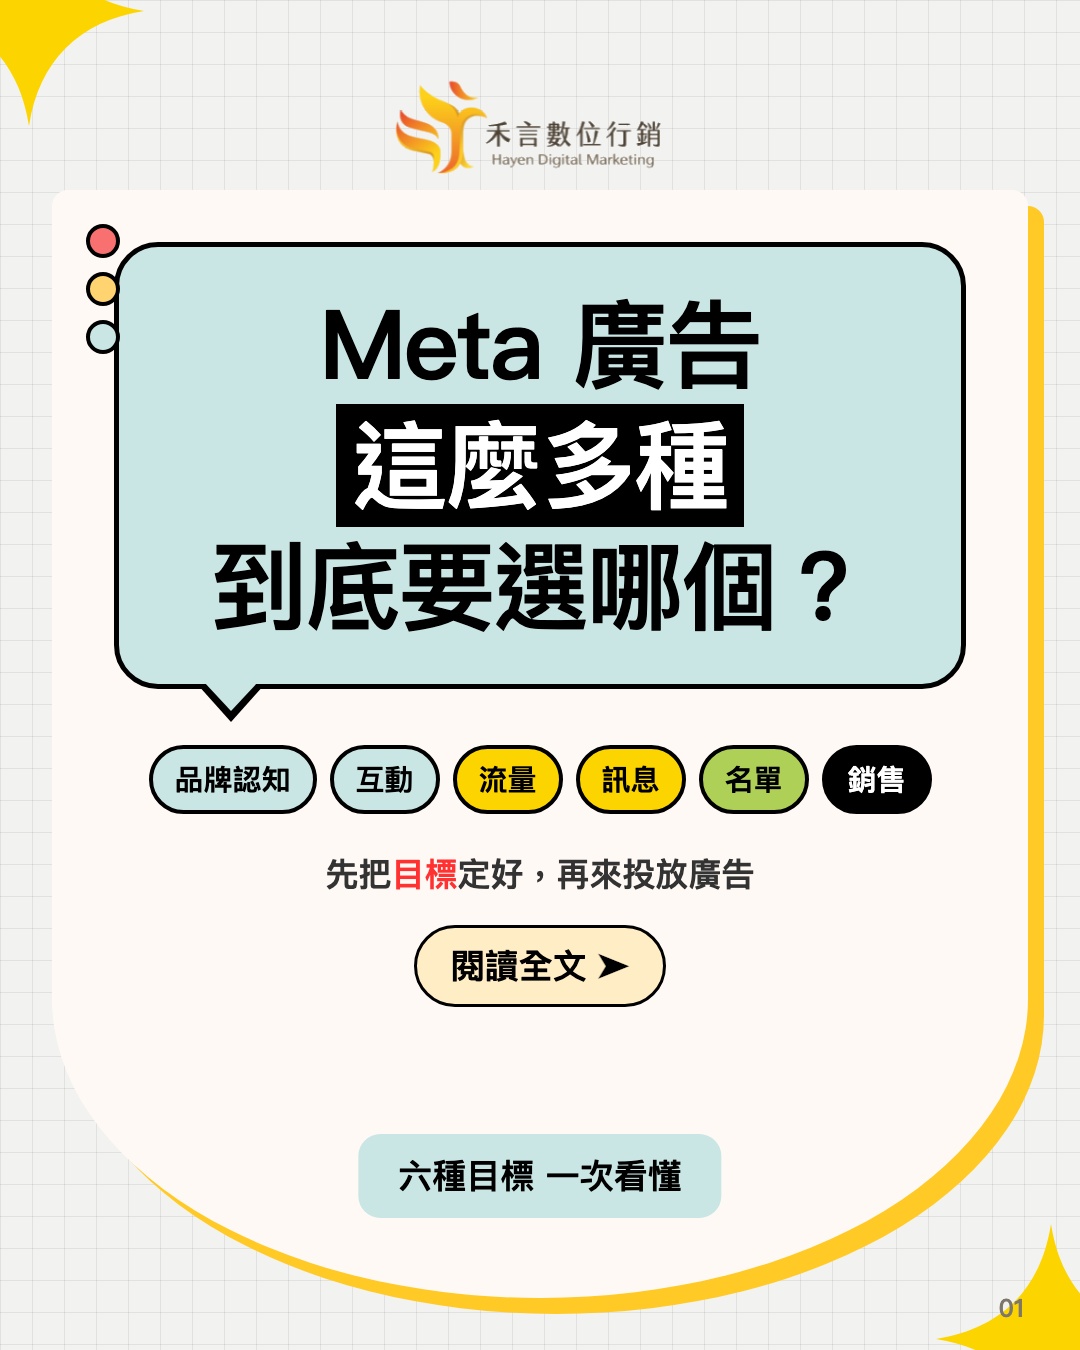
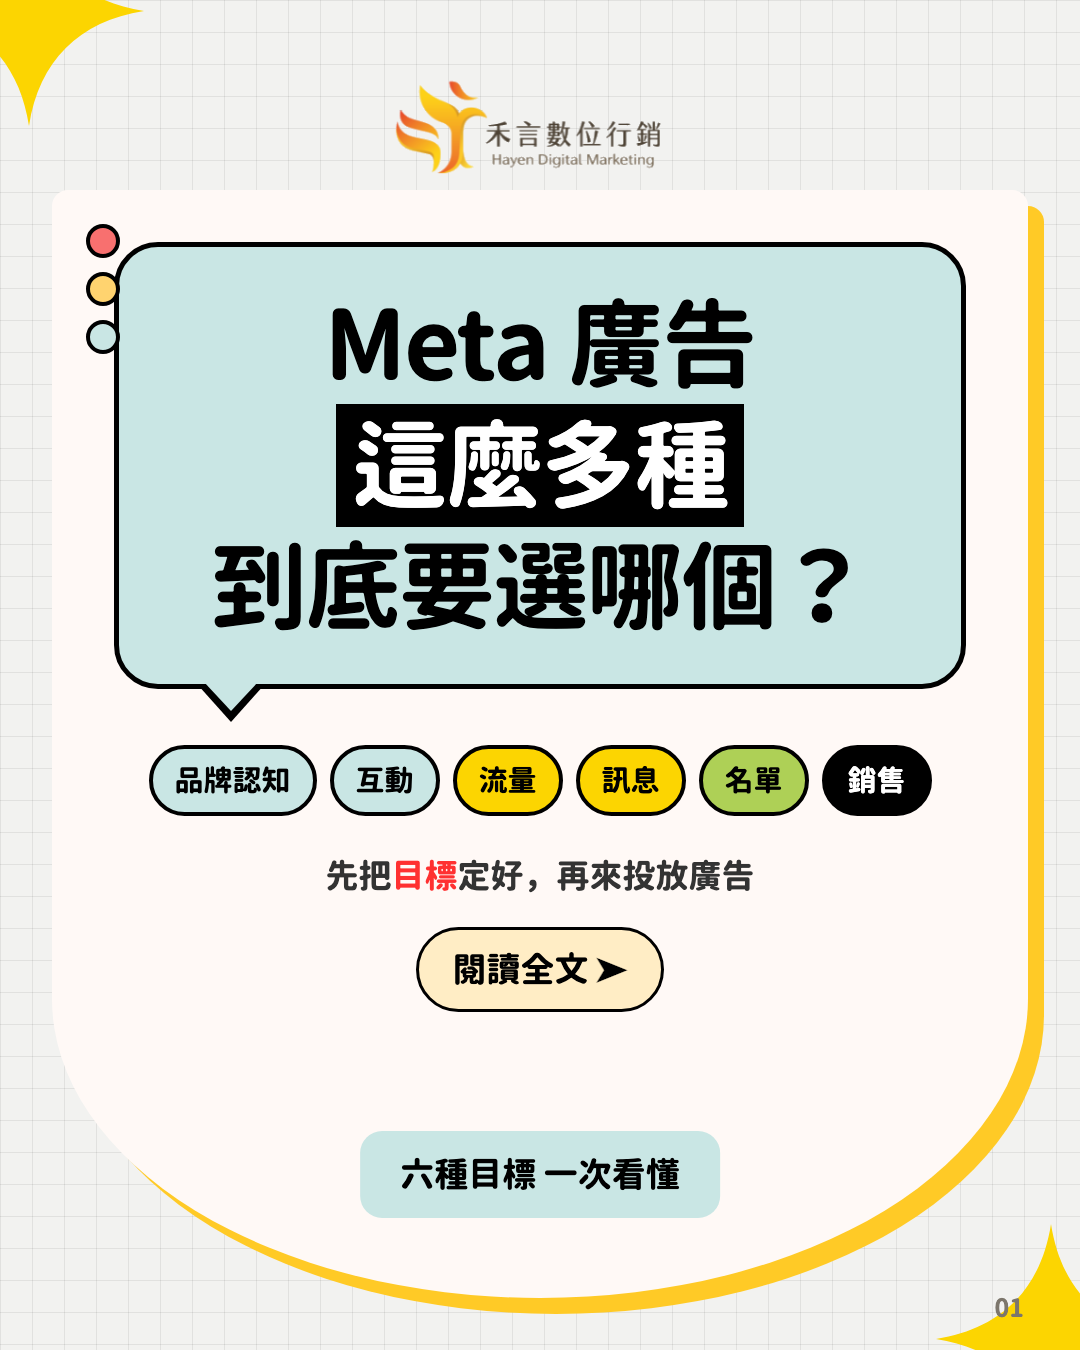
圖卡字型換成源柔體（GenJyuuGothic），skill 記下用法
字型檔沿用 notion-to-card/assets/fonts，出圖時複製到 HTML 旁邊，
截圖加 --virtual-time-budget 等字型載入完成。

Claude-Session: https://claude.ai/code/session_01RJpXBeydvdqZhm4syuBF8E

diff --git a/100_Todo/drafts/social-cards/final_HA01_原始檔.html b/100_Todo/drafts/social-cards/final_HA01_原始檔.html
@@ -3,6 +3,8 @@
 <head>
 <meta charset="utf-8">
 <title>禾言圖卡（Canva 版型骨架）</title>
+<link rel="stylesheet" href="fonts/bold/GenJyuuGothic-Bold.css">
+<link rel="stylesheet" href="fonts/medium/GenJyuuGothic-Medium.css">
 <style>
 :root{
   /* 全部取自 Canva 版型「廣告上線前」 */
@@ -11,7 +13,7 @@
   --coral:#F8706F; --amber:#FFD36F; --red:#FF3131; --ink:#000;
 }
 *{box-sizing:border-box;margin:0;padding:0}
-body{background:#fff;margin:0;font-family:"PingFang TC","Heiti TC","Noto Sans TC",sans-serif}
+body{background:#fff;margin:0;font-family:'GenJyuuGothic','PingFang TC','Heiti TC',sans-serif}
 
 .card{
   width:1080px;height:1350px;position:relative;overflow:hidden;margin:0 auto;
